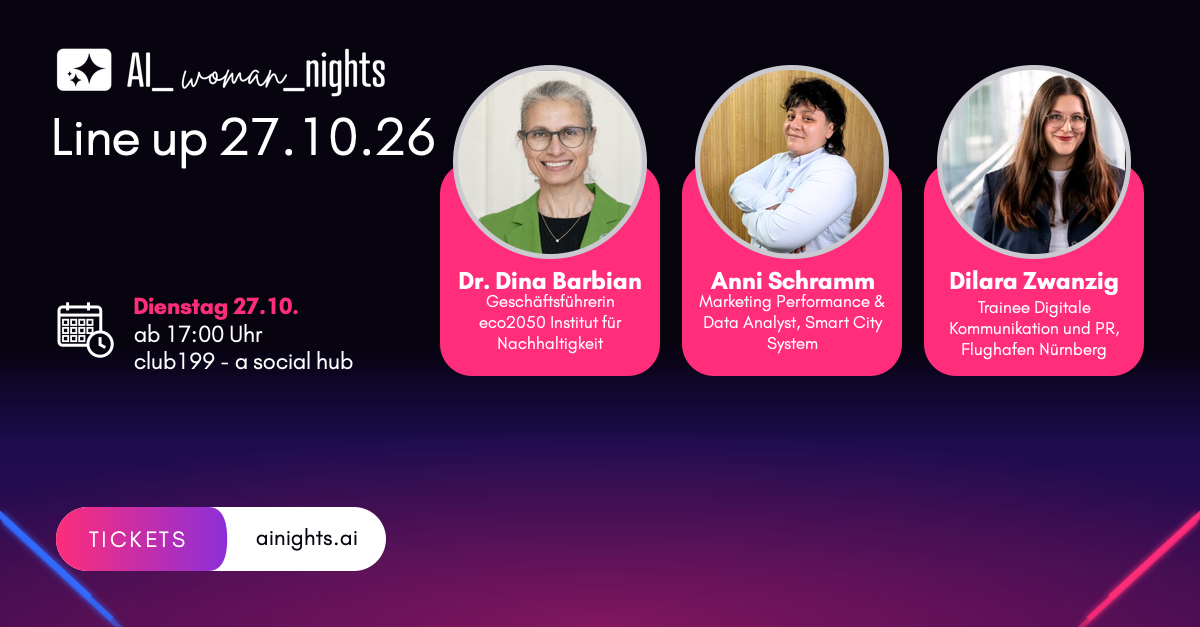
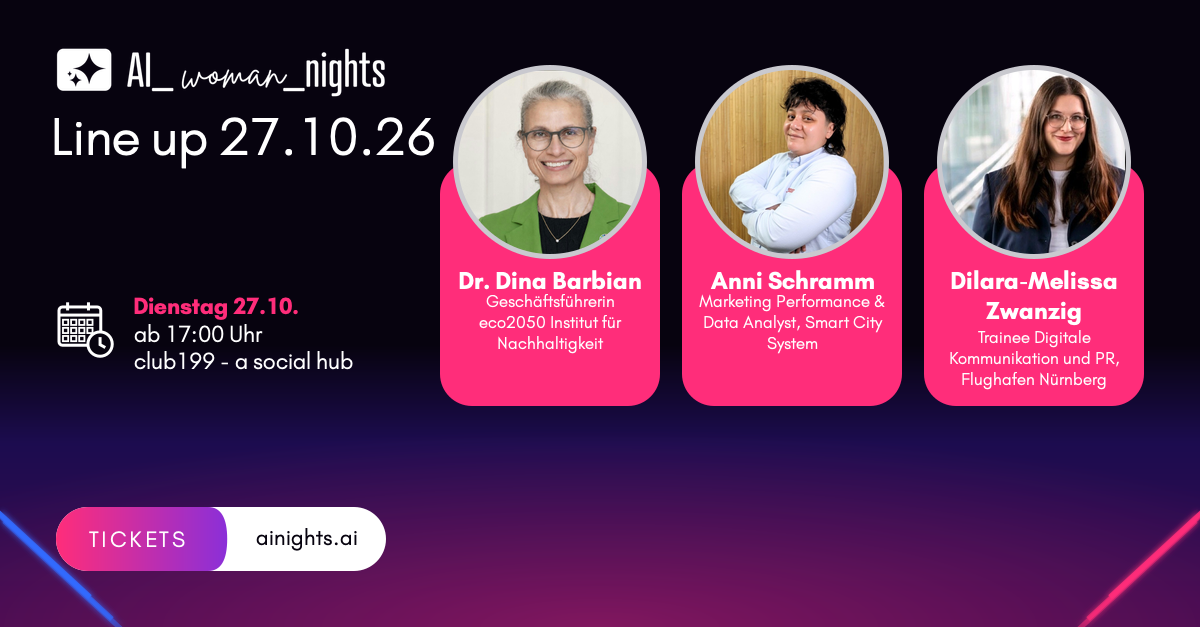
Dilara-Melissa Zwanzig: voller Name, Grafiken neu, Übersichts-Karussell mit Jobtitel und Arbeitgeber

Changed region(s): [[0.3392, 0.4242, 0.9558, 0.6667]]

diff --git a/src/data/presentation.ts b/src/data/presentation.ts
@@ -80,7 +80,7 @@ export const womanNightsSpotlight = {
   ticketQr: '/media/presentation/ai-woman-nights-01-tickets.svg',
   // Die drei gelieferten Fotos sind als Gruppe bestätigt. Einzelne Zuordnungen
   // sind in den numerischen Dateinamen nicht enthalten, daher eine gemeinsame Bildunterschrift.
-  speakerNames: ['Dr. Dina Barbian', 'Anni Schramm', 'Dilara Zwanzig'],
+  speakerNames: ['Dr. Dina Barbian', 'Anni Schramm', 'Dilara-Melissa Zwanzig'],
   portraits: [
     '/media/presentation/woman-speaker-1695500720118.jpeg',
     '/media/presentation/woman-speaker-1770044091000.jpeg',
